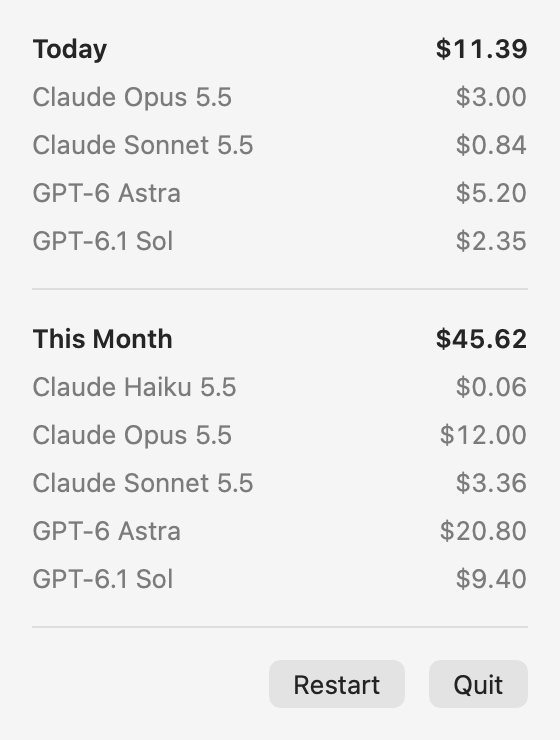
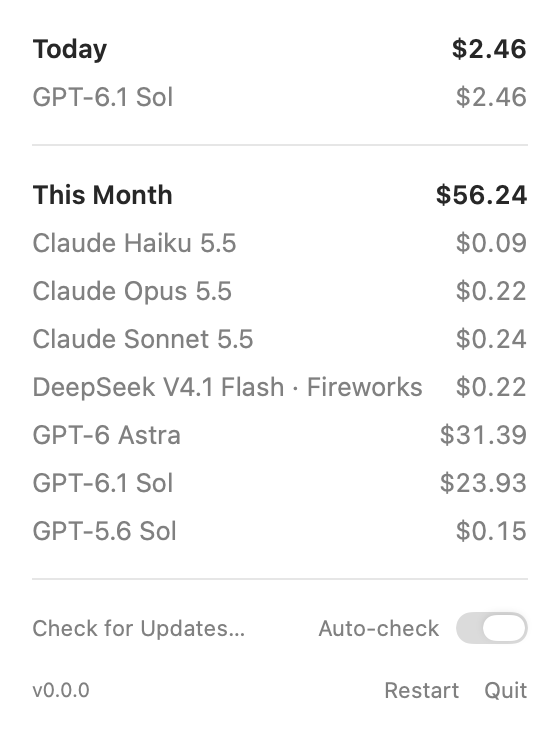
Update README screenshot for current Token Meter UI (#29)

diff --git a/docs/images/README.md b/docs/images/README.md
@@ -1,12 +1,13 @@
 # App images
 
-These images capture the app's native views with synthetic usage data, at 2× scale:
+`usage-panel.png` captures the current shared `CostPanelContent` in a native AppKit window at the production 280-point width and 2× scale, in light appearance with automatic update checks enabled. It shows Today and This Month totals, model costs, the subtle update controls, and Restart and Quit actions.
 
-- `menu-bar.png`: the actual `NSStatusBarButton`, isolated on a neutral dark backing.
-- `usage-panel.png`: the stock `CostPanel`, rendered by SwiftUI `ImageRenderer` with its normal light appearance on a neutral backing. It shows four models today and five this month, including the native Restart and Quit controls.
+Captured October 13, 2026 from commit `a90b092` using:
 
-Captured October 12, 2026 from the integrated UI at `49c03aba21148c63ee6c10b361c7d839ef1a87e0`. The panel used native view rendering because desktop screen capture was unavailable. No mockup, overlaid text, personal usage logs, or unrelated menu items are included.
+```sh
+SWIFT_TOOL=scripts/swift-tool.sh scripts/preview-ui.sh
+```
 
-Verified against v0.1.0: the panel already reflects alphabetical provider and family ordering. Anthropic's Claude families appear as Haiku, Opus, Sonnet; OpenAI's GPT families appear as Astra, Sol. Haiku has no priced usage today in the sample, so it appears only in This Month. The image remains representative of the released UI.
+The README image is the harness output `light-auto-on.png`. Totals are synthetic ($2.46 today and $56.24 this month), and version `0.0.0` identifies the preview. The harness renders the same native content as the live panel without reading personal logs or preferences, starting Sparkle, or replacing the installed app. It captures panel content, not the menu-bar anchor or popover material. See [native UI validation](../ui-validation.md) for the workflow and limits.
 
-The sample logs contain only made-up session/message identifiers and token counts. All four log roots were explicitly set to isolated temporary directories. The diagnostic report contained 17 sample files, zero diagnostics, and zero unpriced records; Today totaled $11.39 and This Month totaled $45.6152 (displayed as $45.62). Capture-only instrumentation stayed outside the repository; the app source was not changed for these images.
+`menu-bar.png` is an older capture of the actual `NSStatusBarButton`, isolated on a neutral dark backing. It was captured October 12, 2026 with synthetic usage data and is not displayed in the README.

diff --git a/README.md b/README.md
@@ -4,9 +4,9 @@ AI coding costs in your menu bar.
 
 See the API-equivalent cost of your coding agents in the macOS menu bar. Token Meter reads local **Codex, Claude Code, Pi, and OpenCode** usage and estimates what the recorded tokens would cost at published Standard API rates—even when you use a subscription.
 
-![Expanded Token Meter panel showing Today and This Month totals with a breakdown across GPT and Claude models](docs/images/usage-panel.png)
+![Token Meter panel showing Today and This Month totals, model costs, update controls, and Restart and Quit actions](docs/images/usage-panel.png)
 
-*Native app panel captured with synthetic usage data. Models appear alphabetically by provider and family: Claude Haiku, Opus, and Sonnet, then GPT Astra and Sol. Each period shows only models with priced usage.*
+*Current native panel captured with synthetic usage data and preview version 0.0.0. Models appear alphabetically by provider and family. The footer includes update controls, Restart, and Quit.*
 
 ## Features
 
